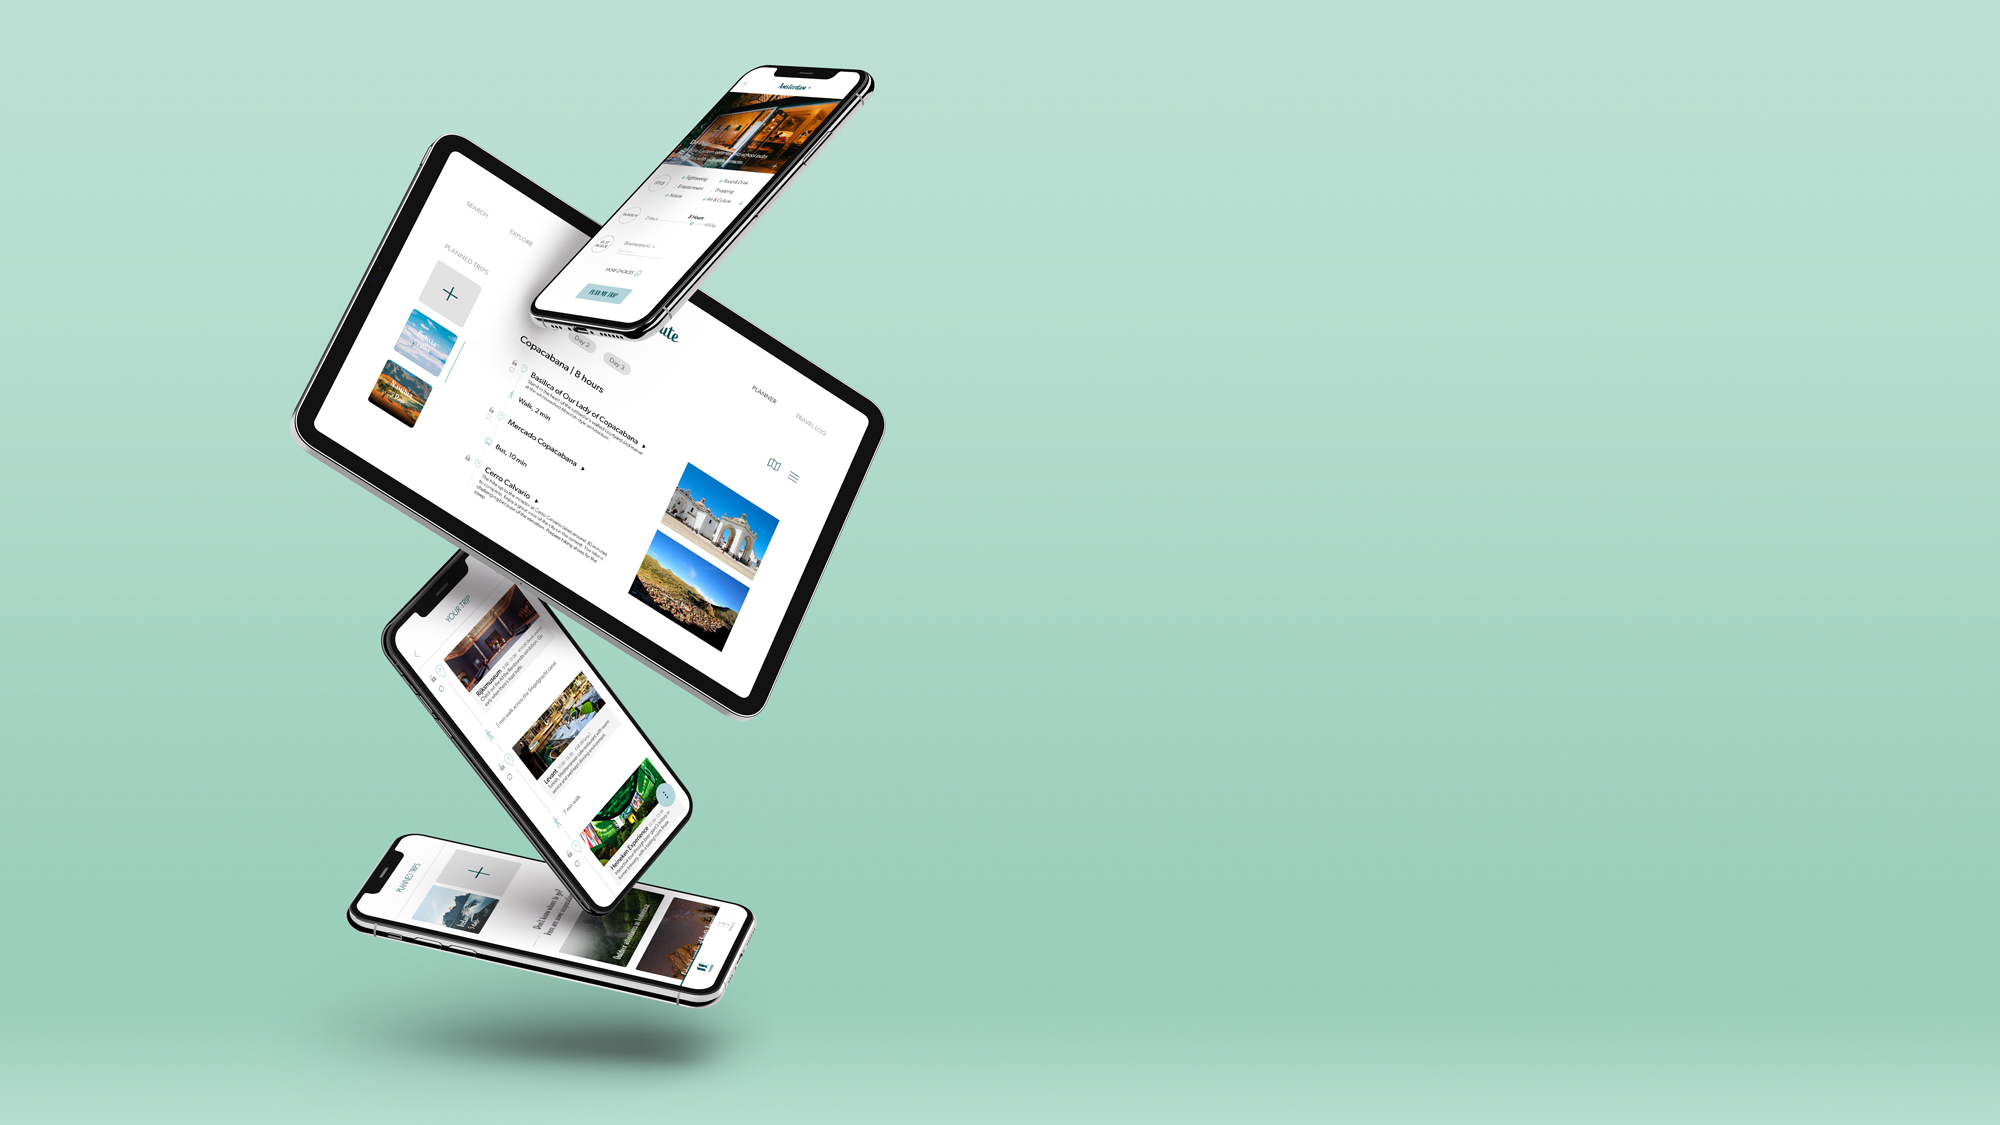
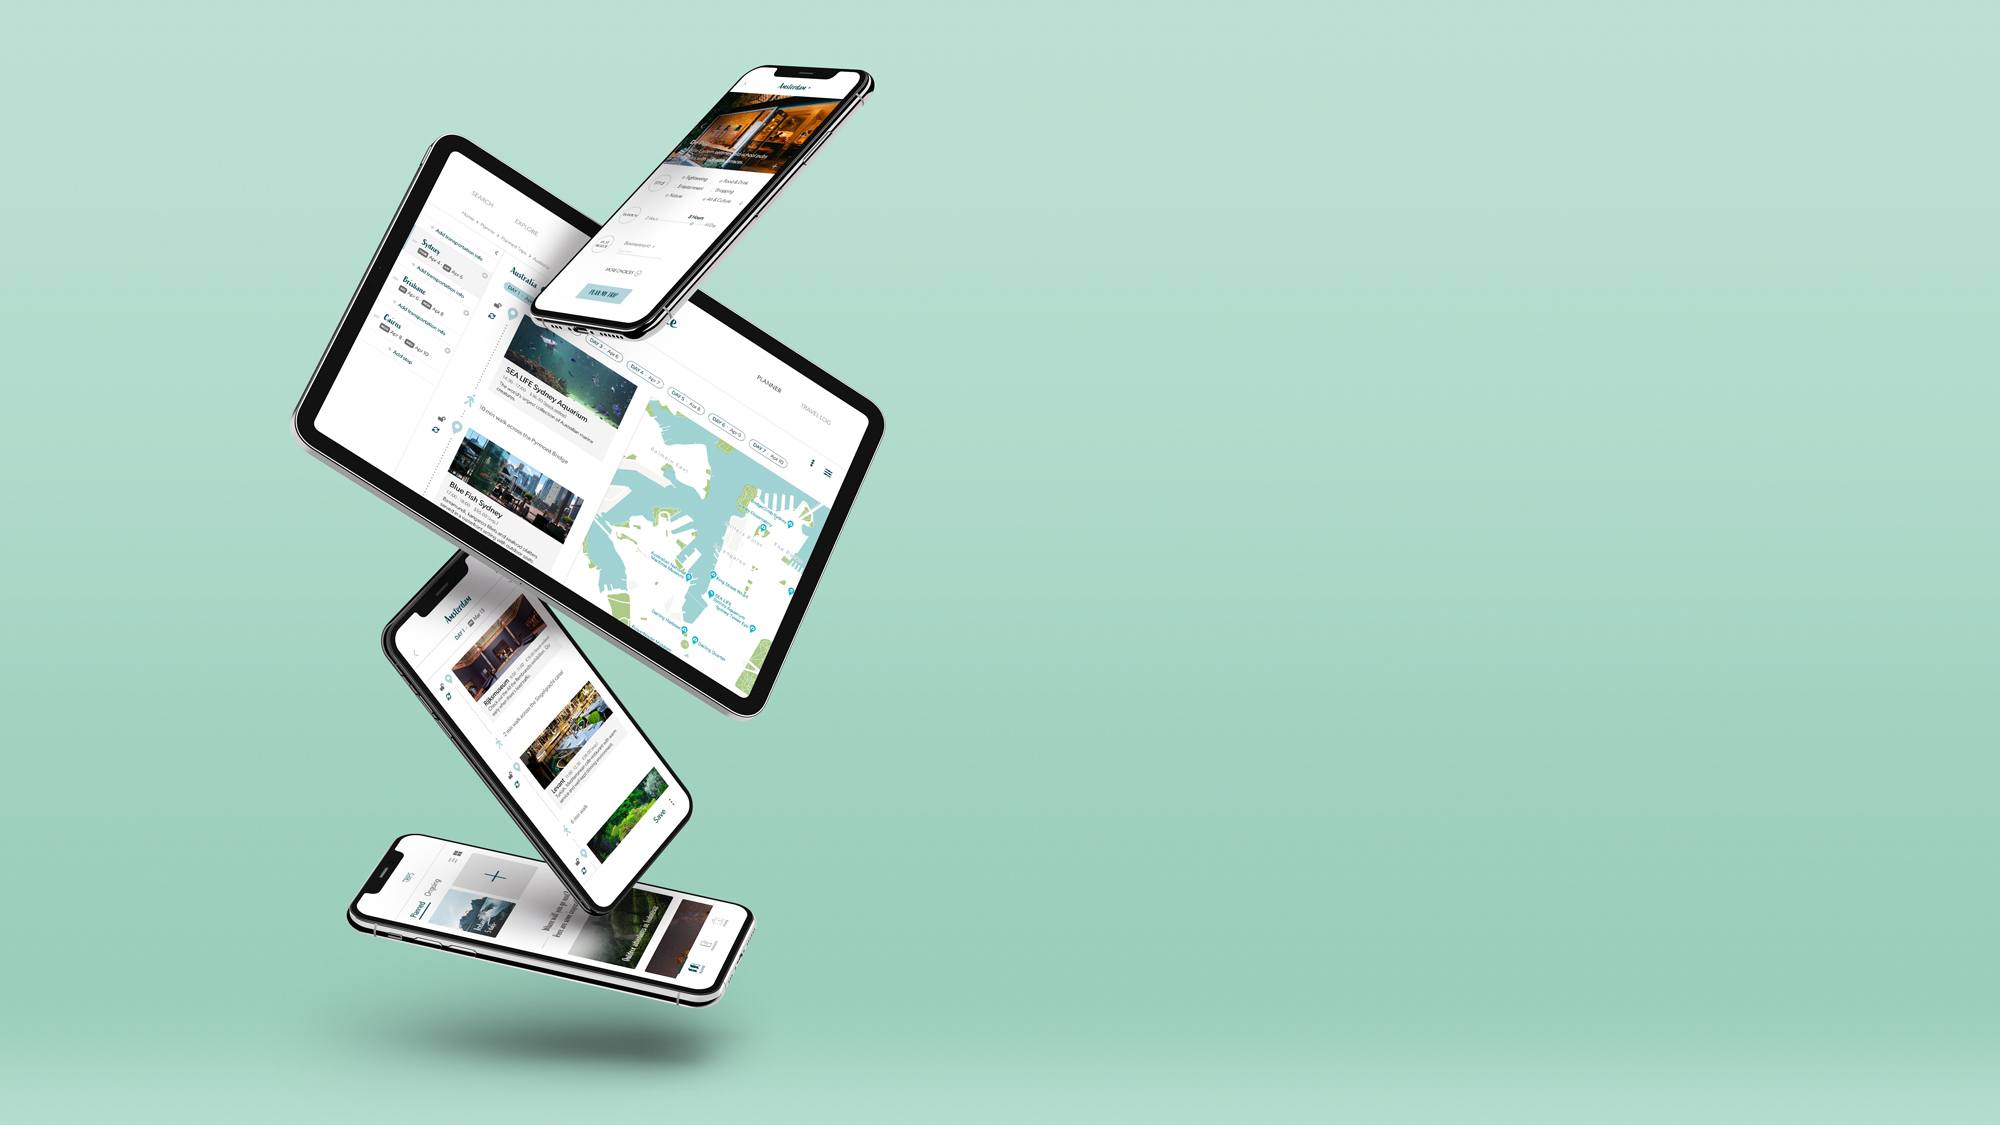
en route

Changed region(s): [[0.186, 0.2178, 0.434, 0.8711]]

diff --git a/enroute/index.html b/enroute/index.html
@@ -197,6 +197,16 @@
         </div>
         <div class="contentblocks ctext">
           <p>
+            In addition to the mobile app, I also designed a web interface,
+            which allows users to take advantage of the screen space and
+            navigate more freely, especially in the planning phase.
+          </p>
+        </div>
+        <div>
+          <img class="images" src="assets/web.png" />
+        </div>
+        <div class="contentblocks ctext">
+          <p>
             During the trip, the user can get information and tips about
             destinations. Some steps or destinations will also allow users to
             jump to other relevant apps like Uber, Airbnb, and Yelp for extented
@@ -208,16 +218,7 @@
         <div class="contentblocks">
           <img class="images" src="assets/mobile2.png" />
         </div>
-        <!-- <div class="contentblocks ctext">
-          <p>
-            In addition to the mobile app, I also designed a web version mainly
-            for the planning phase, so that the user could have more space to
-            view the preference choices for the trip.
-          </p>
-        </div>
-        <div>
-          <img class="images" src="assets/webselect.jpg" />
-        </div> -->
+
         <h3 class="subtitles" id="animation">ANIMATION &amp; MOTION DESIGN</h3>
 
         <div class="fullwidth"></div>
